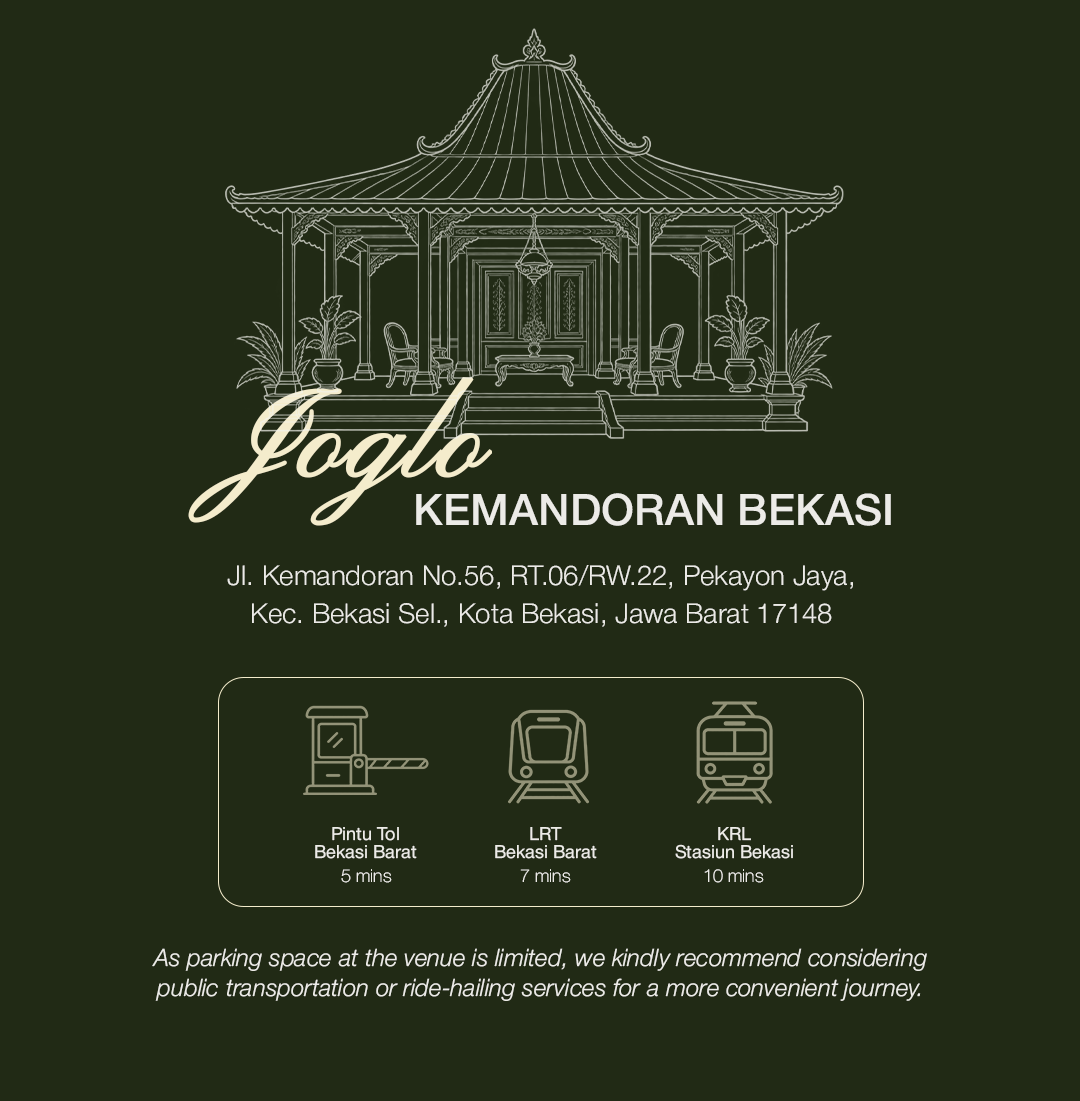
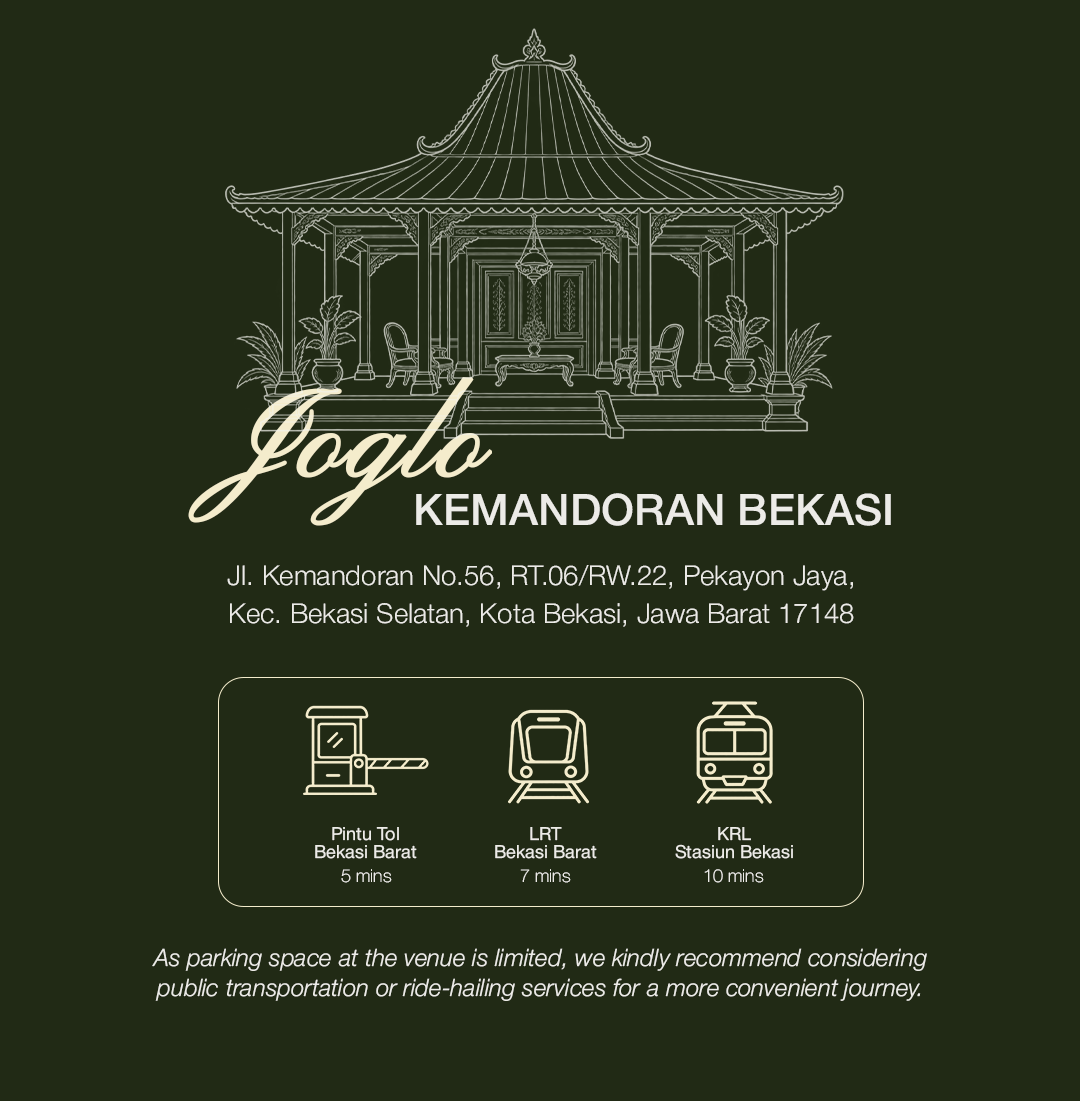
Update thank you section

diff --git a/index.html b/index.html
@@ -125,25 +125,49 @@
 
     <img src="images/wedding-gift.png" class="wedding-gift-image" alt="Wedding Gift">
 
-    <div class="bank-card">
-    <div class="bank-name">BCA</div>
-    <div class="account-number">7370565079</div>
-    <div class="account-holder">a/n Septian Nudin</div>
-
-    <button class="copy-account" onclick="copyAccount('7370565079', this)">
-        Copy Account Number
+    <!-- BUTTON -->
+    <button class="gift-button" onclick="toggleGift()">
+        Click Here
     </button>
+
+    <!-- BANK DETAILS -->
+    <div class="bank-details" id="bankDetails">
+
+        <div class="bank-card">
+            <div class="bank-name">BCA</div>
+            <div class="account-number">7370565079</div>
+            <div class="account-holder">a/n Septian Nudin</div>
+
+            <button class="copy-account" onclick="copyAccount('7370565079', this)">
+                Copy Account Number
+            </button>
+        </div>
+
+        <div class="bank-card">
+            <div class="bank-name">GoPay / ShopeePay</div>
+            <div class="account-number">081906086754</div>
+            <div class="account-holder">a/n Fitri Wulandari</div>
+
+            <button class="copy-account" onclick="copyAccount('081906086754', this)">
+                Copy Number
+            </button>
+        </div>
+
+        <div class="gift-address">
+            <div class="bank-name">Alamat Pengiriman</div>
+
+        <div class="address-text">
+            Purinusaphala Blok N-21, RT 005/012,<br>
+            Kel. Jatiluhur, Kec. Jatiasih,Kota Bekasi, 17425 <br>
+            Ditujukan kepada Fitri Wulandari
+        </div>
+
+        <button class="copy-account" onclick="copyAddress(this)">
+            Copy Address
+        </button>
 </div>
 
-<div class="bank-card">
-    <div class="bank-name">GoPay / ShopeePay</div>
-    <div class="account-number">081906086754</div>
-    <div class="account-holder">a/n Fitri Wulandari</div>
-
-    <button class="copy-account" onclick="copyAccount('081906086754', this)">
-        Copy Number
-    </button>
-</div>
+    </div>
 
 </section>
 

diff --git a/style.css b/style.css
@@ -581,10 +581,30 @@ body {
     box-sizing: border-box;
 }
 .wedding-gift-image {
-  width: 100%;
-  height: auto;
-  display: block;
-  margin: 0 auto 30px;
+    width: 100%;
+    max-width: 600px;
+    height: auto;
+    display: block;
+    margin: 0 auto 0px;
+}
+
+.gift-button {
+    padding: 10px 24px;
+    border: 1px solid #3b4c28;
+    border-radius: 30px;
+    background: #3b4c28;
+    color: #ecebe7;
+    font-family: "Helvetica Neue", Arial, sans-serif;
+    font-size: 14px;
+    cursor: pointer;
+    margin-bottom: 25px;
+}
+
+.bank-details {
+    display: none;
+    width: 100%;
+    flex-direction: column;
+    align-items: center;
 }
 
 .bank-card {
@@ -634,6 +654,21 @@ body {
   cursor: pointer;
 }
 
+.gift-address {
+    width: 100%;
+    text-align: center;
+    color: #3b4c28;
+    font-family: "Helvetica Neue", Helvetica, Arial, sans-serif;
+
+    padding: 10px 0;
+}
+
+.address-text {
+    font-size: 10px;
+    line-height: 1.2;
+    margin-bottom: 10px;
+}
+
 /* =========================================
    SHARE YOUR BLESSING
    ========================================= */
@@ -662,6 +697,7 @@ body {
 
 .share-blessing-image {
     width: 100%;
+    max-width: 600px;
     height: auto;
     display: block;
     margin-bottom: 10px;
@@ -981,23 +1017,12 @@ body {
         height: auto;
     }
 
-    .wedding-gift {
-        padding: 0px 0px 0px;
-    }
-
-    .wedding-gift-image {
-        width: 100%;
-        margin-bottom: 10px;
-    }
-
-    .bank-card {
-        width: 100%;
-    }
 
     @media (max-width: 600px) {
 
     .blessing-image {
         width: 100%;
+        
        
     }
 

diff --git a/script.js b/script.js
@@ -199,6 +199,19 @@ function copyAccount(accountNumber, button) {
     }, 2000);
 }
 
+function toggleGift() {
+    const bankDetails = document.getElementById("bankDetails");
+    const giftButton = document.querySelector(".gift-button");
+
+    if (bankDetails.style.display === "flex") {
+        bankDetails.style.display = "none";
+        giftButton.textContent = "Click Here";
+    } else {
+        bankDetails.style.display = "flex";
+        giftButton.textContent = "Close";
+    }
+}
+
 // GOOGLE SHEETS
 const scriptURL = "https://script.google.com/macros/s/AKfycbyaGL0lcUflYG03GurcNJQoXl66DAo18IM7bHI3lIRWcKHaZzRGpNY3UftGatUcyZ-y/exec";
 
